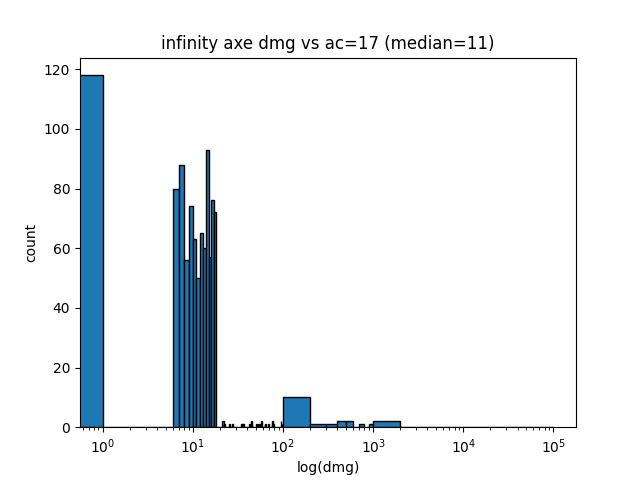
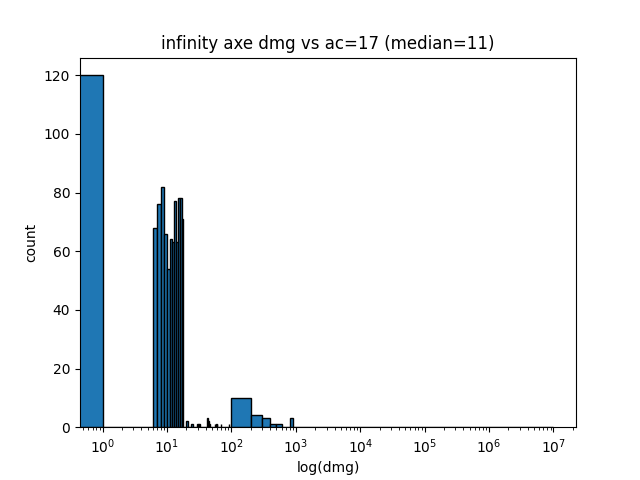
update

diff --git a/infinity_axe.py b/infinity_axe.py
@@ -93,7 +93,7 @@ def inf_axe_attack(hit_dc, enemy_ac, advantage=False, verbose=True):
 
 def get_bins():
     out = list(range(0,101))
-    for e in range(2, 5):
+    for e in range(2, 7):
         for i in range(10**e, 10**(e+1)+1):
             if i % (10**e) == 0:
                 out.append(i)
@@ -113,8 +113,8 @@ for enemy_ac in enemy_acs:
         data.append(inf_axe_attack(hit_dc, enemy_ac, advantage=advantage, verbose=verbose))
         if verbose:
             print("************")
+            
     data = sorted(data)
-
     average = numpy.average(data)
     median = int(numpy.median(data))
 
@@ -122,6 +122,7 @@ for enemy_ac in enemy_acs:
     print(f"PLAYER HIT DC: {hit_dc}")
     print(f"AVERAGE DMG (N={trials}): {average}")
     print(f"MEDIAN DMG (N={trials}): {median}")
+    print(data)
     print("************")
 
     fig, ax = plt.subplots()
